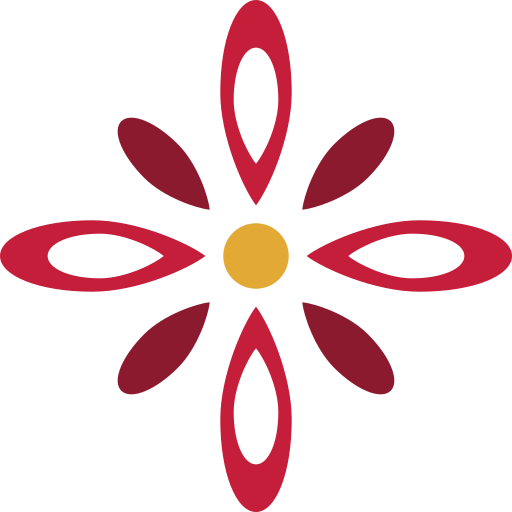
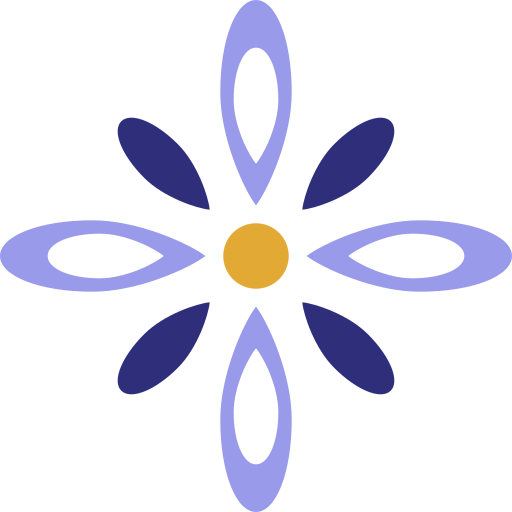
feat: make periwinkle #9A9AEB the main brand color
Replace the crimson/garnet/blush palette with periwinkle (fills, with ink
text for contrast), iris (AA text/icons), indigo (hover, footer, dark
sections) and mist (tints). Regenerate logos, icons and og-image.

Claude-Session: https://claude.ai/code/session_01GmfMMTiBaBU8WUtub5zy69

diff --git a/src/assets/css/components.css b/src/assets/css/components.css
@@ -10,12 +10,12 @@
 }
 .btn:active { transform: translateY(1px); }
 .btn .icon { width: 1.15em; height: 1.15em; }
-.btn-primary { background: var(--crimson); color: var(--white); }
-.btn-primary:hover { background: var(--garnet); color: var(--white); }
-.btn-outline { border-color: var(--crimson); color: var(--crimson); }
-.btn-outline:hover { background: var(--crimson); color: var(--white); }
-.btn-light { background: var(--magnolia); color: var(--garnet); }
-.btn-light:hover { background: var(--blush); color: var(--garnet); }
+.btn-primary { background: var(--periwinkle); color: var(--ink); }
+.btn-primary:hover { background: var(--indigo); color: var(--white); }
+.btn-outline { border-color: var(--iris); color: var(--iris); }
+.btn-outline:hover { border-color: var(--periwinkle); background: var(--periwinkle); color: var(--ink); }
+.btn-light { background: var(--magnolia); color: var(--indigo); }
+.btn-light:hover { background: var(--mist); color: var(--indigo); }
 .btn-ghost-light { border-color: var(--on-dark-line); color: var(--magnolia); }
 .btn-ghost-light:hover { border-color: var(--magnolia); background: rgb(255 254 249 / 0.1); color: var(--white); }
 .btn-row { display: flex; flex-wrap: wrap; gap: var(--space-s); }
@@ -23,7 +23,7 @@
 
 .eyebrow {
   display: inline-flex; align-items: center; gap: 0.6rem; margin-bottom: var(--space-m);
-  font-size: 0.8rem; font-weight: 500; letter-spacing: 0.18em; text-transform: uppercase; color: var(--crimson);
+  font-size: 0.8rem; font-weight: 500; letter-spacing: 0.18em; text-transform: uppercase; color: var(--iris);
 }
 .eyebrow::before { content: ""; width: 1.75rem; height: 1px; background: currentColor; }
 
@@ -37,7 +37,7 @@
 .icon-badge {
   display: inline-grid; place-items: center; flex-shrink: 0;
   width: 3.25rem; height: 3.25rem; border-radius: 50%;
-  background: var(--blush); color: var(--crimson);
+  background: var(--mist); color: var(--iris);
 }
 .icon-badge .icon { width: 1.55rem; height: 1.55rem; }
 
@@ -51,13 +51,13 @@
   border: 1px solid var(--line); border-radius: var(--radius-m);
   transition: border-color 0.2s var(--ease), box-shadow 0.2s var(--ease), transform 0.2s var(--ease);
 }
-.service-card:hover { border-color: rgb(196 30 58 / 0.35); box-shadow: var(--shadow-m); transform: translateY(-2px); }
+.service-card:hover { border-color: rgb(84 84 196 / 0.35); box-shadow: var(--shadow-m); transform: translateY(-2px); }
 .service-card h3 { margin-top: var(--space-xs); font-size: 1.6rem; }
 .service-card h3 a { color: var(--ink); text-decoration: none; }
 .service-card h3 a::after,
 .feature-card h3 a::after { content: ""; position: absolute; inset: 0; border-radius: inherit; }
 .service-card p { font-size: 0.98rem; color: var(--stone); }
-.card-link { display: inline-flex; align-items: center; gap: 0.4rem; margin-top: auto; padding-top: var(--space-xs); font-weight: 500; color: var(--crimson); }
+.card-link { display: inline-flex; align-items: center; gap: 0.4rem; margin-top: auto; padding-top: var(--space-xs); font-weight: 500; color: var(--iris); }
 .card-link .icon { width: 1.1rem; height: 1.1rem; transition: transform 0.2s var(--ease); }
 .service-card:hover .card-link .icon,
 .feature-card:hover .card-link .icon { transform: translateX(3px); }
@@ -67,7 +67,7 @@
 .feature-card {
   position: relative; display: flex; flex-direction: column; gap: var(--space-s); min-height: 300px;
   padding: clamp(1.75rem, 1.2rem + 2vw, 2.75rem); overflow: hidden;
-  background: var(--blush); border-radius: var(--radius-l);
+  background: var(--mist); border-radius: var(--radius-l);
   transition: transform 0.2s var(--ease), box-shadow 0.2s var(--ease);
 }
 .feature-card:hover { transform: translateY(-3px); box-shadow: var(--shadow-m); }
@@ -76,7 +76,7 @@
 .feature-card h3 a { color: inherit; text-decoration: none; }
 .feature-card p { max-width: 32rem; color: var(--stone); }
 .feature-card .icon-badge { background: var(--white); }
-.feature-card--dark { background: var(--garnet); color: var(--magnolia); }
+.feature-card--dark { background: var(--indigo); color: var(--magnolia); }
 .feature-card--dark h3,
 .feature-card--dark .eyebrow,
 .feature-card--dark .card-link { color: var(--magnolia); }
@@ -87,7 +87,7 @@
 /* Lists */
 .checklist { display: grid; gap: 0.8rem; padding: 0; list-style: none; }
 .checklist li { display: grid; grid-template-columns: 1.4rem 1fr; gap: 0.75rem; align-items: start; }
-.checklist .icon { width: 1.4rem; height: 1.4rem; margin-top: 0.15rem; color: var(--crimson); }
+.checklist .icon { width: 1.4rem; height: 1.4rem; margin-top: 0.15rem; color: var(--iris); }
 @media (min-width: 640px) { .checklist--columns { grid-template-columns: 1fr 1fr; column-gap: var(--space-xl); } }
 
 .feature-list { display: grid; gap: var(--space-l); margin-top: var(--space-xl); padding: 0; list-style: none; }
@@ -107,7 +107,7 @@
 .step::before {
   counter-increment: step; content: "0" counter(step);
   display: block; margin-bottom: var(--space-s);
-  font-family: var(--font-display); font-size: 3.25rem; font-style: italic; font-weight: 500; line-height: 1; color: var(--crimson);
+  font-family: var(--font-display); font-size: 3.25rem; font-style: italic; font-weight: 500; line-height: 1; color: var(--iris);
 }
 .step h3 { margin-bottom: 0.4rem; font-size: 1.6rem; }
 .step p { color: var(--stone); }
@@ -121,7 +121,7 @@
   border: 1px solid var(--line); border-radius: var(--radius-m);
 }
 .testimonial blockquote { font-family: var(--font-display); font-size: 1.3rem; font-weight: 500; line-height: 1.45; }
-.testimonial blockquote::before { content: "\201C"; display: block; height: 1.6rem; font-size: 3.5rem; line-height: 1; color: var(--crimson); }
+.testimonial blockquote::before { content: "\201C"; display: block; height: 1.6rem; font-size: 3.5rem; line-height: 1; color: var(--periwinkle); }
 .testimonial figcaption { margin-top: auto; font-size: 0.95rem; font-weight: 500; color: var(--stone); }
 .testimonial--feature { padding: clamp(1.75rem, 1.2rem + 2vw, 3rem); box-shadow: var(--shadow-m); }
 .testimonial--feature blockquote { font-size: var(--step-2); }
@@ -134,12 +134,12 @@
   background: var(--white); border: 1px solid var(--line); border-radius: var(--radius-pill);
   font-size: 0.92rem; color: var(--ink); text-decoration: none;
 }
-.rating-chip:hover { border-color: var(--crimson); color: var(--ink); }
+.rating-chip:hover { border-color: var(--iris); color: var(--ink); }
 
 /* FAQ (native <details>) */
 .faq-list { display: grid; gap: var(--space-s); max-width: 52rem; }
 .faq-item { background: var(--white); border: 1px solid var(--line); border-radius: var(--radius-m); transition: border-color 0.2s var(--ease); }
-.faq-item[open] { border-color: rgb(196 30 58 / 0.35); }
+.faq-item[open] { border-color: rgb(84 84 196 / 0.35); }
 .faq-item summary {
   display: flex; align-items: center; justify-content: space-between; gap: var(--space-m);
   padding: 1.1rem 1.4rem; cursor: pointer; list-style: none;
@@ -148,21 +148,23 @@
 .faq-item summary::-webkit-details-marker { display: none; }
 .faq-item summary::after {
   content: ""; flex-shrink: 0; width: 0.6rem; height: 0.6rem;
-  border-right: 2px solid var(--crimson); border-bottom: 2px solid var(--crimson);
+  border-right: 2px solid var(--iris); border-bottom: 2px solid var(--iris);
   transform: translateY(-25%) rotate(45deg); transition: transform 0.2s var(--ease);
 }
 .faq-item[open] summary::after { transform: translateY(25%) rotate(225deg); }
 .faq-answer { padding: 0 1.4rem 1.3rem; color: var(--stone); }
 
 /* CTA band */
-.cta-band { position: relative; overflow: hidden; background: var(--crimson); color: var(--white); }
+.cta-band { position: relative; overflow: hidden; background: var(--periwinkle); color: var(--ink); }
 .cta-band-inner { position: relative; display: grid; gap: var(--space-l); align-items: center; padding-block: var(--space-3xl); }
 @media (min-width: 960px) {
   .cta-band-inner { grid-template-columns: 1.2fr 1fr; }
   .cta-band .btn-row { justify-content: flex-end; }
 }
-.cta-band h2 { color: var(--white); }
-.cta-band p { max-width: 36rem; margin-top: var(--space-s); color: rgb(255 255 255 / 0.92); }
+.cta-band h2 { color: var(--ink); }
+.cta-band p { max-width: 36rem; margin-top: var(--space-s); color: var(--ink); }
+.cta-band .btn-ghost-light { border-color: rgb(43 37 39 / 0.35); color: var(--ink); }
+.cta-band .btn-ghost-light:hover { border-color: var(--ink); background: rgb(255 255 255 / 0.25); color: var(--ink); }
 .cta-band .logo-mark { position: absolute; left: -5rem; bottom: -7rem; width: 20rem; height: 20rem; opacity: 0.08; pointer-events: none; }
 
 /* Chips */
@@ -172,5 +174,5 @@
   background: var(--white); border: 1px solid var(--line-strong); border-radius: var(--radius-pill);
   font-size: 0.95rem; color: var(--ink); text-decoration: none;
 }
-.town-chips a:hover { border-color: var(--crimson); color: var(--crimson); }
-.town-chips .icon { width: 1rem; height: 1rem; color: var(--crimson); }
+.town-chips a:hover { border-color: var(--iris); color: var(--iris); }
+.town-chips .icon { width: 1rem; height: 1rem; color: var(--iris); }

diff --git a/src/assets/css/base.css b/src/assets/css/base.css
@@ -41,10 +41,10 @@ h2 { font-size: var(--step-3); }
 h3 { font-size: var(--step-2); }
 p, li { text-wrap: pretty; }
 
-a { color: var(--crimson); text-decoration-thickness: 1px; text-underline-offset: 0.2em; }
-a:hover { color: var(--garnet); }
+a { color: var(--iris); text-decoration-thickness: 1px; text-underline-offset: 0.2em; }
+a:hover { color: var(--indigo); }
 
-:focus-visible { outline: 2px solid var(--crimson); outline-offset: 3px; border-radius: 4px; }
+:focus-visible { outline: 2px solid var(--iris); outline-offset: 3px; border-radius: 4px; }
 .site-footer :focus-visible,
 .cta-band :focus-visible,
 .feature-card--dark :focus-visible { outline-color: var(--magnolia); }
@@ -55,7 +55,7 @@ a:hover { color: var(--garnet); }
 
 .section { padding-block: var(--space-3xl); }
 .section--linen { background: var(--linen); }
-.section--blush { background: var(--blush); }
+.section--mist { background: var(--mist); }
 
 .split { display: grid; gap: var(--space-2xl); align-items: center; }
 .split--top { align-items: start; }
@@ -88,18 +88,18 @@ a:hover { color: var(--garnet); }
 
 /* Logo mark (inline SVG from partials/logo-mark.njk) */
 .logo-mark { width: 48px; height: 48px; }
-.logo-mark .lm-main { fill: var(--crimson); }
-.logo-mark .lm-diag { fill: var(--garnet); }
+.logo-mark .lm-main { fill: var(--periwinkle); }
+.logo-mark .lm-diag { fill: var(--indigo); }
 .logo-mark .lm-center { fill: var(--pollen); }
 .logo-mark--reversed .lm-main { fill: var(--magnolia); }
-.logo-mark--reversed .lm-diag { fill: var(--blush); }
+.logo-mark--reversed .lm-diag { fill: var(--mist); }
 
 /* HTML wordmark lockup */
 .brand { display: inline-flex; align-items: center; gap: 0.7rem; flex-shrink: 0; color: var(--ink); text-decoration: none; }
 .brand:hover { color: var(--ink); }
 .brand .logo-mark { width: 46px; height: 46px; }
 .brand-text { display: flex; flex-direction: column; line-height: 1; }
-.brand-name { font-family: var(--font-display); font-size: 1.65rem; font-weight: 600; letter-spacing: -0.005em; color: var(--crimson); }
+.brand-name { font-family: var(--font-display); font-size: 1.65rem; font-weight: 600; letter-spacing: -0.005em; color: var(--iris); }
 .brand-sub { margin-top: 0.3rem; font-size: 0.62rem; font-weight: 500; letter-spacing: 0.24em; text-transform: uppercase; }
 .brand--light, .brand--light:hover { color: var(--magnolia); }
 .brand--light .brand-name { color: var(--magnolia); }
@@ -119,8 +119,8 @@ a:hover { color: var(--garnet); }
   display: block; padding: 0.5rem 0.65rem; border-radius: var(--radius-pill);
   font-size: 0.95rem; font-weight: 500; color: var(--ink); text-decoration: none; white-space: nowrap;
 }
-.nav-list > li > a:hover { color: var(--crimson); }
-.nav-list a[aria-current="page"] { color: var(--garnet); background: var(--blush); }
+.nav-list > li > a:hover { color: var(--iris); }
+.nav-list a[aria-current="page"] { color: var(--indigo); background: var(--mist); }
 
 .has-sub { position: relative; }
 .has-sub::after { content: ""; position: absolute; left: 0; right: 0; top: 100%; height: 0.6rem; }
@@ -137,7 +137,7 @@ a:hover { color: var(--garnet); }
   transition: opacity 0.18s var(--ease), transform 0.18s var(--ease);
 }
 .nav-sub a { display: block; padding: 0.55rem 0.8rem; border-radius: var(--radius-s); font-size: 0.95rem; color: var(--ink); text-decoration: none; }
-.nav-sub a:hover { background: var(--blush); color: var(--garnet); }
+.nav-sub a:hover { background: var(--mist); color: var(--indigo); }
 
 .nav-call { white-space: nowrap; }
 
@@ -187,7 +187,7 @@ a:hover { color: var(--garnet); }
   .js .site-nav.is-open { transform: none; visibility: visible; transition: transform 0.28s var(--ease); }
   .js .nav-list { flex-direction: column; align-items: stretch; gap: 0; }
   .js .nav-list > li > a { padding: 0.85rem 0.5rem; border-radius: 0; border-bottom: 1px solid var(--line); font-size: 1.1rem; }
-  .js .nav-list a[aria-current="page"] { background: none; color: var(--crimson); }
+  .js .nav-list a[aria-current="page"] { background: none; color: var(--iris); }
   .js .has-sub::after { display: none; }
   .js .nav-sub {
     position: static; min-width: 0; padding: 0.25rem 0 0.5rem 0.75rem;
@@ -207,21 +207,21 @@ a:hover { color: var(--garnet); }
 .breadcrumbs ol { display: flex; flex-wrap: wrap; gap: 0.4rem; padding: 0; list-style: none; }
 .breadcrumbs li + li::before { content: "/"; margin-right: 0.4rem; color: var(--line-strong); }
 .breadcrumbs a { color: var(--stone); text-decoration: none; }
-.breadcrumbs a:hover { color: var(--crimson); text-decoration: underline; }
+.breadcrumbs a:hover { color: var(--iris); text-decoration: underline; }
 
 /* Footer */
-.site-footer { padding-block: var(--space-3xl) var(--space-xl); background: var(--garnet); color: var(--on-dark); }
+.site-footer { padding-block: var(--space-3xl) var(--space-xl); background: var(--indigo); color: var(--on-dark); }
 .footer-grid { display: grid; gap: var(--space-2xl); }
 @media (min-width: 768px) { .footer-grid { grid-template-columns: repeat(2, 1fr); } }
 @media (min-width: 1024px) { .footer-grid { grid-template-columns: 1.5fr 1fr 0.9fr 1.2fr; } }
 .footer-brand .logo-mark { width: 52px; height: 52px; }
 .footer-tagline { margin-block: var(--space-l) var(--space-s); font-family: var(--font-display); font-size: 1.5rem; font-style: italic; font-weight: 500; color: var(--magnolia); }
-.footer-title { margin-bottom: var(--space-m); font-family: var(--font-body); font-size: 0.78rem; font-weight: 600; letter-spacing: 0.2em; text-transform: uppercase; color: var(--blush); }
+.footer-title { margin-bottom: var(--space-m); font-family: var(--font-body); font-size: 0.78rem; font-weight: 600; letter-spacing: 0.2em; text-transform: uppercase; color: var(--mist); }
 .site-footer ul { display: grid; gap: 0.55rem; padding: 0; list-style: none; }
 .site-footer a { color: var(--magnolia); text-decoration: none; }
 .site-footer a:hover { color: var(--white); text-decoration: underline; }
 .footer-contact li, .footer-contact a { display: flex; align-items: center; gap: 0.6rem; overflow-wrap: anywhere; }
-.footer-contact .icon { width: 1.2rem; height: 1.2rem; color: var(--blush); }
+.footer-contact .icon { width: 1.2rem; height: 1.2rem; color: var(--mist); }
 .footer-bottom {
   display: flex; flex-wrap: wrap; justify-content: space-between; gap: var(--space-s);
   margin-top: var(--space-2xl); padding-top: var(--space-l);
@@ -239,7 +239,7 @@ a:hover { color: var(--garnet); }
   display: flex; flex-direction: column; align-items: center; gap: 0.15rem;
   padding: 0.55rem 0.25rem; font-size: 0.8rem; font-weight: 500; color: var(--ink); text-decoration: none;
 }
-.mobile-bar a:first-child { background: var(--crimson); color: var(--white); }
+.mobile-bar a:first-child { background: var(--periwinkle); color: var(--ink); }
 .mobile-bar .icon { width: 1.35rem; height: 1.35rem; }
 @media (max-width: 767px) { body { padding-bottom: calc(4rem + env(safe-area-inset-bottom)); } }
 @media (min-width: 768px) { .mobile-bar { display: none; } }

diff --git a/src/assets/css/pages.css b/src/assets/css/pages.css
@@ -4,22 +4,22 @@
 .hero {
   position: relative; overflow: hidden;
   padding-block: clamp(2.5rem, 1.5rem + 5vw, 6rem) clamp(3rem, 2rem + 4vw, 5.5rem);
-  background: radial-gradient(60rem 36rem at 88% 8%, var(--blush), transparent 62%), var(--magnolia);
+  background: radial-gradient(60rem 36rem at 88% 8%, var(--mist), transparent 62%), var(--magnolia);
 }
 .hero-grid { display: grid; gap: var(--space-2xl); align-items: center; }
 @media (min-width: 960px) { .hero-grid { grid-template-columns: 1.1fr 0.9fr; gap: var(--space-3xl); } }
 .hero h1 { max-width: 15ch; }
-.hero h1 .hero-accent { display: block; font-style: italic; font-weight: 500; color: var(--crimson); }
+.hero h1 .hero-accent { display: block; font-style: italic; font-weight: 500; color: var(--iris); }
 .hero .lead { max-width: 34rem; margin-block: var(--space-l) var(--space-xl); }
 .hero-meta { display: flex; flex-wrap: wrap; align-items: center; gap: var(--space-s) var(--space-l); margin-top: var(--space-xl); font-size: 0.92rem; color: var(--stone); }
 .hero-meta > span { display: inline-flex; align-items: center; gap: 0.4rem; }
-.hero-meta .icon { width: 1.1rem; height: 1.1rem; color: var(--crimson); }
+.hero-meta .icon { width: 1.1rem; height: 1.1rem; color: var(--iris); }
 
 .hero-art { position: relative; justify-self: center; width: min(100%, 440px); }
 .hero-arch {
   position: relative; display: grid; place-items: center; aspect-ratio: 4 / 5; overflow: hidden;
   border-radius: 999px 999px var(--radius-l) var(--radius-l);
-  background: radial-gradient(circle at 50% 36%, var(--crimson), var(--garnet) 72%);
+  background: radial-gradient(circle at 50% 36%, var(--periwinkle), var(--indigo) 72%);
   box-shadow: var(--shadow-m);
 }
 .hero-arch::after { content: ""; position: absolute; inset: 14px; border: 1px solid var(--on-dark-line); border-radius: inherit; }
@@ -31,7 +31,7 @@
   font-size: 0.92rem; font-weight: 500;
 }
 .hero-card li { display: flex; align-items: center; gap: 0.55rem; }
-.hero-card .icon { width: 1.15rem; height: 1.15rem; color: var(--crimson); }
+.hero-card .icon { width: 1.15rem; height: 1.15rem; color: var(--iris); }
 @media (max-width: 959px) {
   .hero-art { width: min(100%, 340px); }
   .hero-arch { aspect-ratio: 1; }
@@ -54,9 +54,9 @@
 .included-card { padding: clamp(1.5rem, 1rem + 2vw, 2.5rem); background: var(--linen); border-radius: var(--radius-l); }
 .schedule-note {
   display: flex; gap: var(--space-m); padding: var(--space-l);
-  background: var(--blush); border-left: 3px solid var(--crimson); border-radius: 0 var(--radius-m) var(--radius-m) 0;
+  background: var(--mist); border-left: 3px solid var(--periwinkle); border-radius: 0 var(--radius-m) var(--radius-m) 0;
 }
-.schedule-note .icon { margin-top: 0.2rem; color: var(--crimson); }
+.schedule-note .icon { margin-top: 0.2rem; color: var(--iris); }
 .service-main .schedule-note h2 { margin-bottom: 0.2rem; font-size: 1.4rem; }
 .aside-card {
   position: sticky; top: calc(var(--header-h) + 1.5rem);
@@ -71,11 +71,11 @@
   background: var(--linen); border-radius: var(--radius-s);
   font-weight: 500; color: var(--ink); text-decoration: none; overflow-wrap: anywhere;
 }
-.aside-contact a:hover { background: var(--blush); color: var(--garnet); }
-.aside-contact .icon { width: 1.2rem; height: 1.2rem; color: var(--crimson); }
+.aside-contact a:hover { background: var(--mist); color: var(--indigo); }
+.aside-contact .icon { width: 1.2rem; height: 1.2rem; color: var(--iris); }
 .aside-card .checklist { font-size: 0.95rem; }
 .area-line { display: flex; gap: 0.5rem; max-width: 60rem; margin-top: var(--space-2xl); color: var(--stone); }
-.area-line .icon { width: 1.2rem; height: 1.2rem; margin-top: 0.3rem; color: var(--crimson); }
+.area-line .icon { width: 1.2rem; height: 1.2rem; margin-top: 0.3rem; color: var(--iris); }
 
 /* Contact */
 .contact-grid { display: grid; gap: var(--space-l); margin-bottom: var(--space-3xl); }
@@ -86,9 +86,9 @@
   border: 1px solid var(--line); border-radius: var(--radius-l);
   transition: border-color 0.2s var(--ease), box-shadow 0.2s var(--ease), transform 0.2s var(--ease);
 }
-.contact-card:hover { color: var(--ink); border-color: var(--crimson); box-shadow: var(--shadow-m); transform: translateY(-2px); }
+.contact-card:hover { color: var(--ink); border-color: var(--iris); box-shadow: var(--shadow-m); transform: translateY(-2px); }
 .contact-card h2 { font-size: 1.75rem; }
-.contact-value { font-family: var(--font-display); font-size: 1.45rem; font-weight: 600; color: var(--crimson); overflow-wrap: anywhere; }
+.contact-value { font-family: var(--font-display); font-size: 1.45rem; font-weight: 600; color: var(--iris); overflow-wrap: anywhere; }
 .contact-note { font-size: 0.95rem; color: var(--stone); }
 
 /* Service area */
@@ -99,9 +99,9 @@
   scroll-margin-top: calc(var(--header-h) + 1rem);
   transition: border-color 0.2s var(--ease), box-shadow 0.2s var(--ease);
 }
-.town-card:target { border-color: var(--crimson); box-shadow: 0 0 0 4px var(--blush); }
+.town-card:target { border-color: var(--iris); box-shadow: 0 0 0 4px var(--mist); }
 .town-card h2 { display: flex; align-items: center; gap: 0.5rem; font-size: 1.6rem; }
-.town-card h2 .icon { width: 1.2rem; height: 1.2rem; color: var(--crimson); }
+.town-card h2 .icon { width: 1.2rem; height: 1.2rem; color: var(--iris); }
 .town-card p { margin-top: 0.35rem; font-size: 0.98rem; color: var(--stone); }
 
 /* About */
@@ -114,7 +114,7 @@
   margin-bottom: var(--space-2xl); padding: var(--space-xl);
   background: var(--white); border: 1px solid var(--line); border-radius: var(--radius-l);
 }
-.rating-score { font-family: var(--font-display); font-size: 4.5rem; font-weight: 600; line-height: 1; color: var(--crimson); }
+.rating-score { font-family: var(--font-display); font-size: 4.5rem; font-weight: 600; line-height: 1; color: var(--iris); }
 .rating-summary .stars .icon { width: 1.4rem; height: 1.4rem; }
 .rating-meta { display: grid; gap: 0.3rem; color: var(--stone); }
 .rating-summary .btn { margin-left: auto; }

diff --git a/src/assets/css/tokens.css b/src/assets/css/tokens.css
@@ -23,9 +23,10 @@
 
 /* Design tokens. Brand colors mirror src/_data/brand.json (enforced by tests/design-tokens.test.mjs). */
 :root {
-  --crimson: #C41E3A;
-  --garnet: #8B1A2F;
-  --blush: #F7E6E4;
+  --periwinkle: #9A9AEB;
+  --iris: #5454C4;
+  --indigo: #2E2E7A;
+  --mist: #EEEEFB;
   --magnolia: #FFFEF9;
   --linen: #F8F5F0;
   --ink: #2B2527;
@@ -63,7 +64,7 @@
   --radius-pill: 999px;
 
   --shadow-s: 0 1px 2px rgb(43 37 39 / 0.06), 0 2px 8px rgb(43 37 39 / 0.05);
-  --shadow-m: 0 2px 6px rgb(43 37 39 / 0.05), 0 16px 40px rgb(139 26 47 / 0.1);
+  --shadow-m: 0 2px 6px rgb(43 37 39 / 0.05), 0 16px 40px rgb(46 46 122 / 0.1);
 
   --container: 1200px;
   --header-h: 76px;
